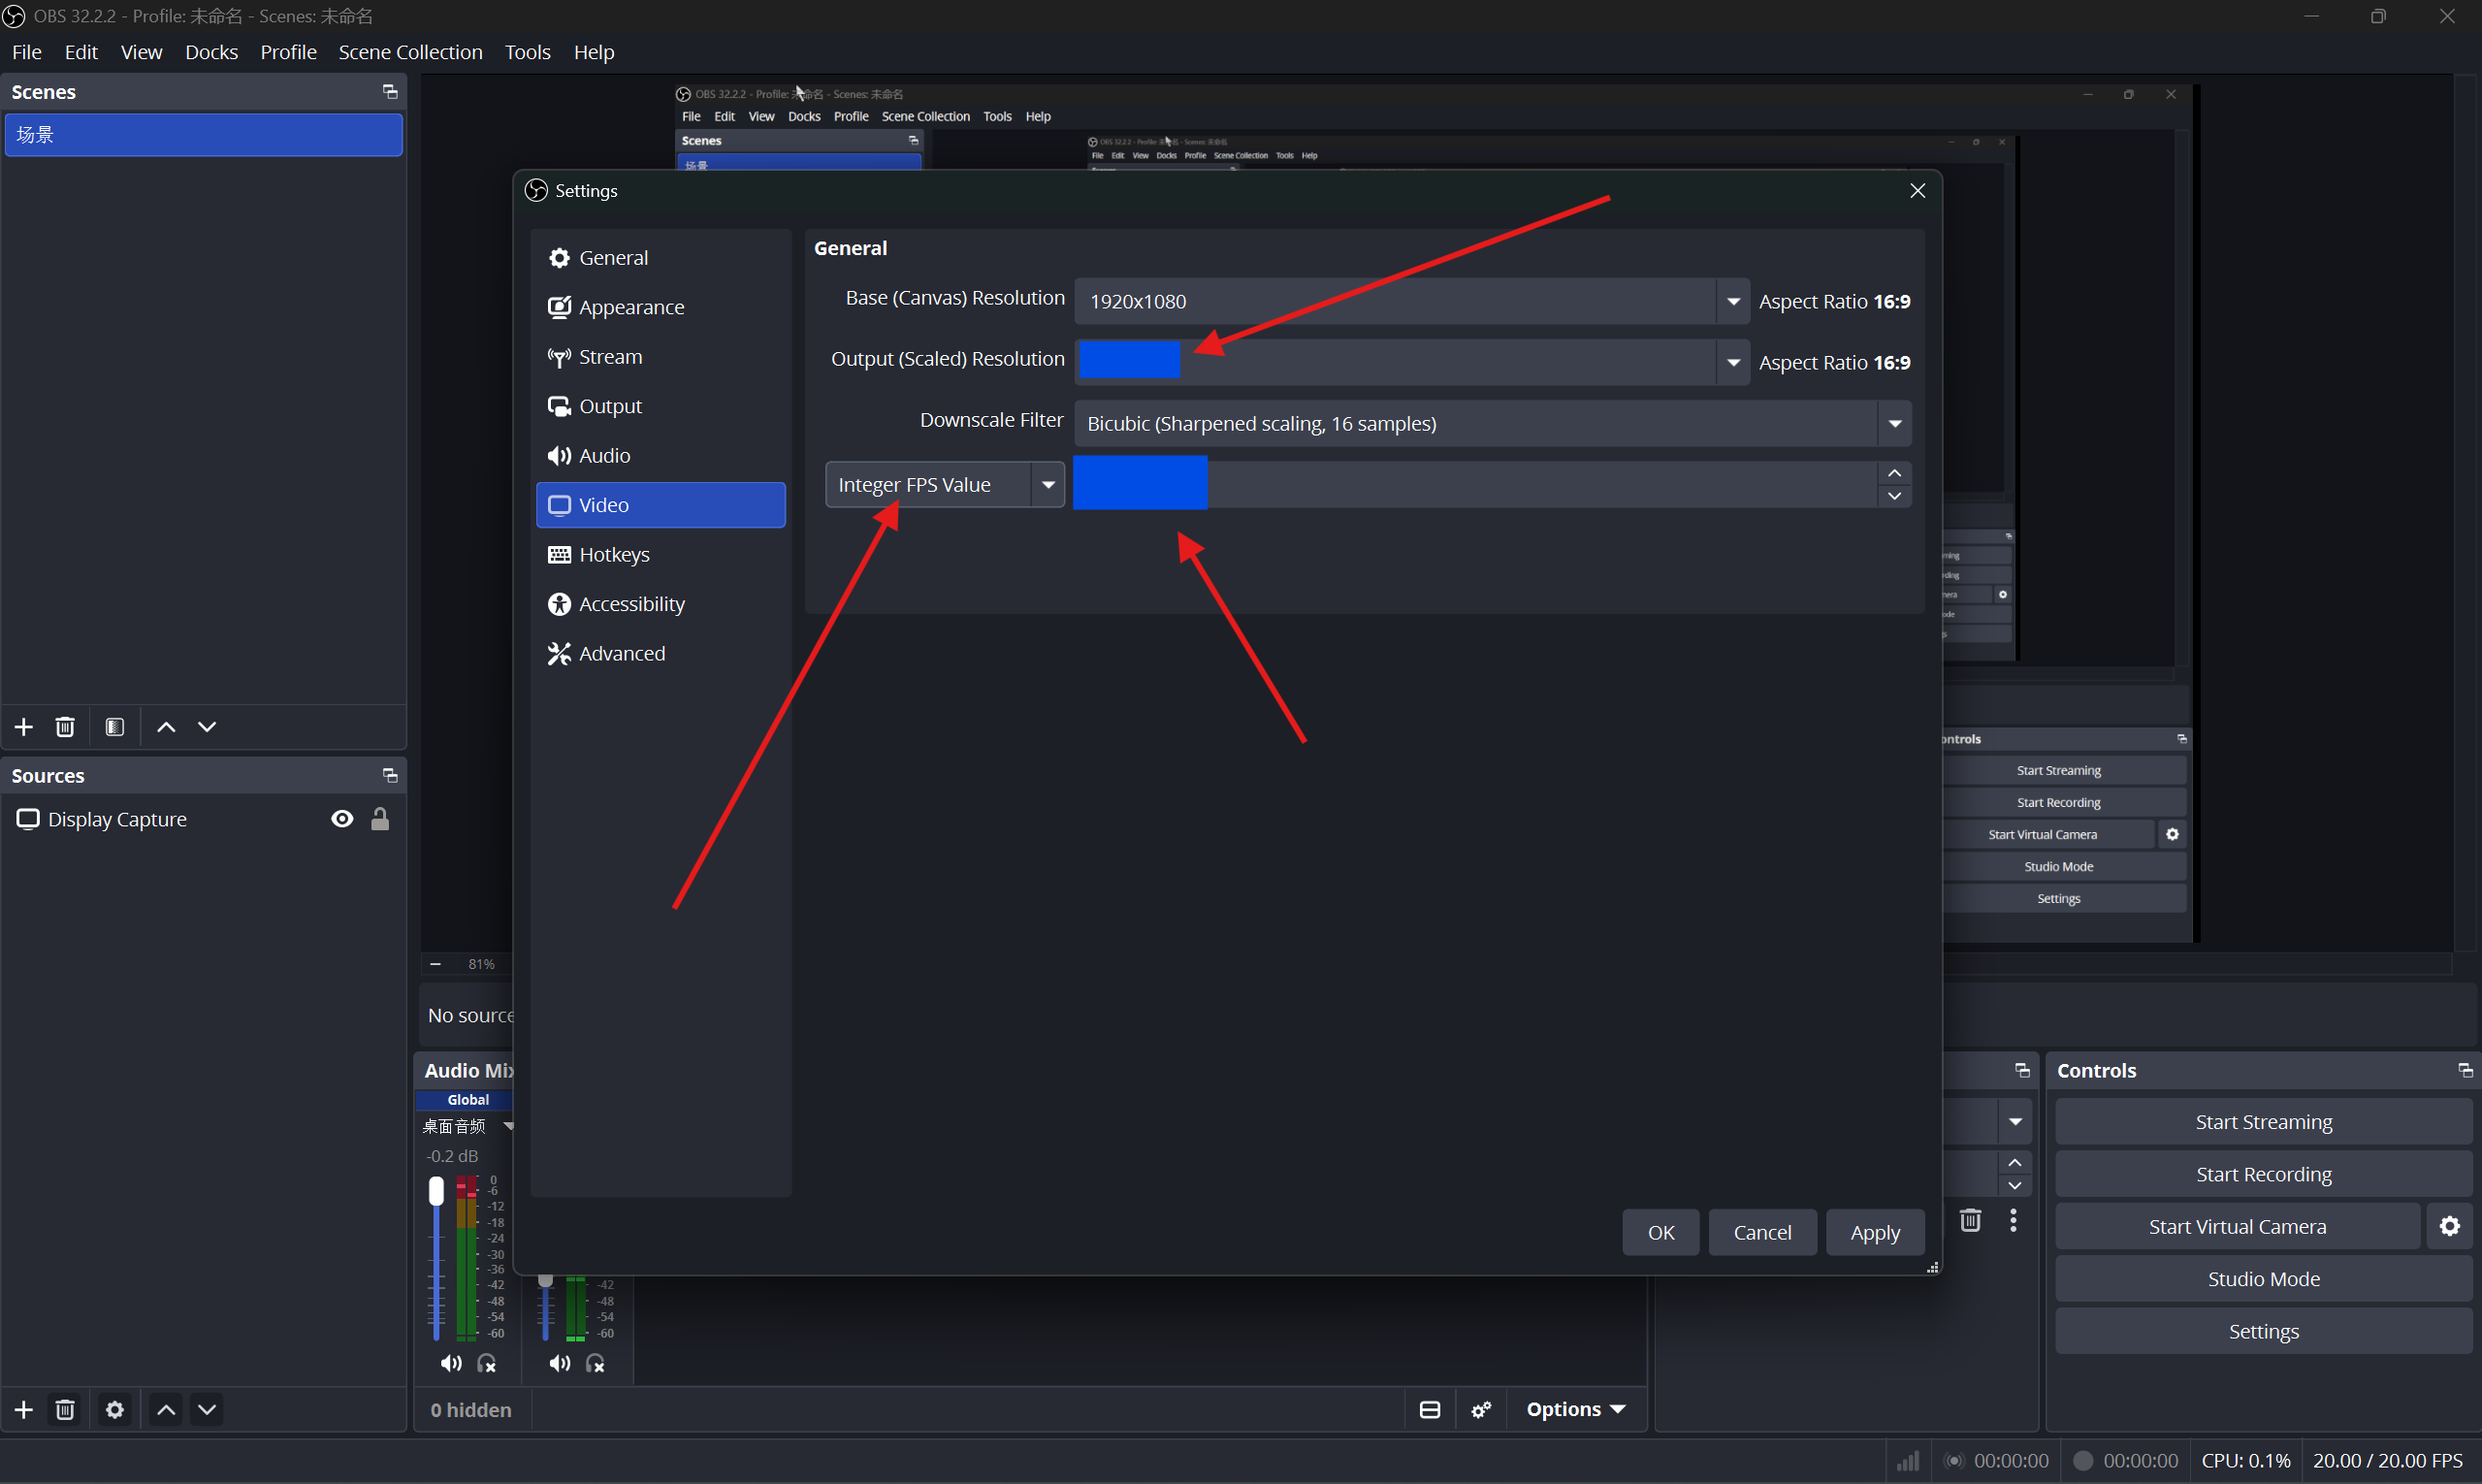
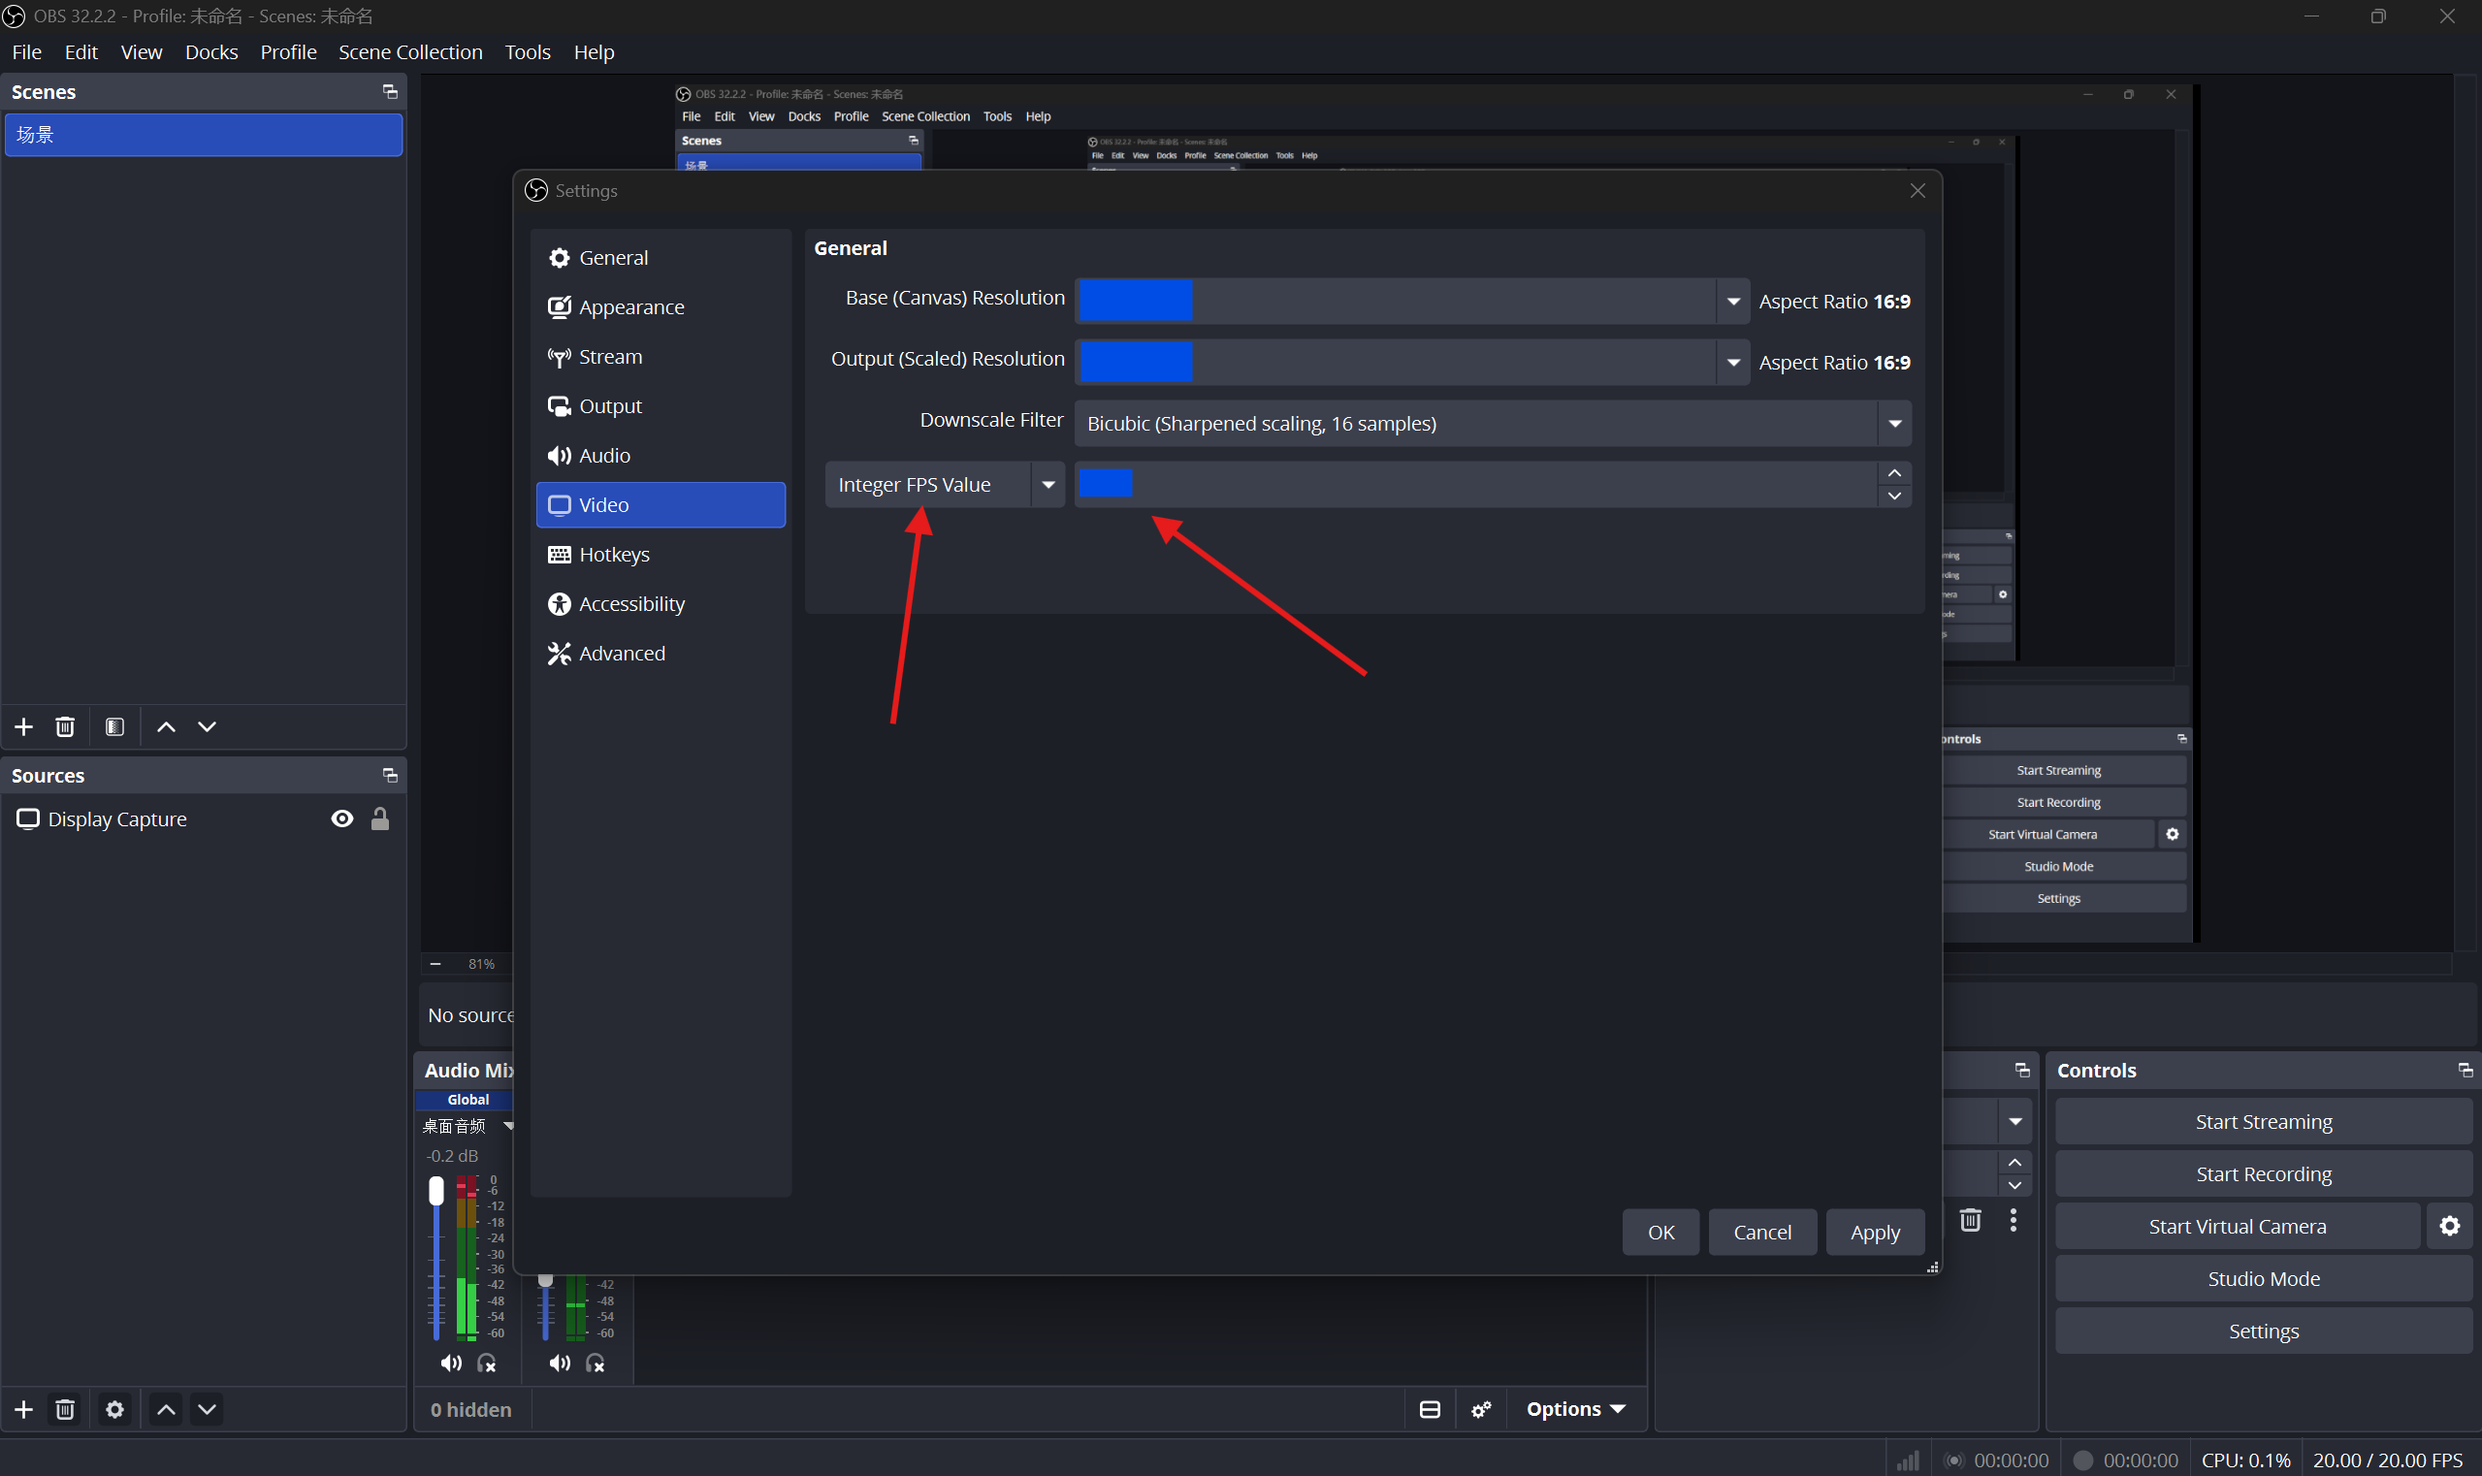
feat: enhance ICE probing and SDP handling for improved WebRTC compatibility

diff --git a/server/api/streams/whep/[stream].post.ts b/server/api/streams/whep/[stream].post.ts
@@ -1,15 +1,25 @@
 /**
  * Same-origin WHEP (WebRTC) signaling proxy — the SDP exchange only. The
  * browser POSTs its offer here; we forward it to the hosting SRS's
- * /rtc/v1/whep/ endpoint (reached over the internal network, same host as the
- * FLV base) and return the answer. Same-origin keeps JWT auth + no CORS, and
- * removes any need for SRS's API port to be browser-visible — only the MEDIA
- * (ICE/UDP 8000) still flows browser↔SRS directly, which is the point of
- * WebRTC. Admin-only, like the FLV proxy.
+ * /rtc/v1/whep/ endpoint and return the answer. Same-origin keeps JWT auth +
+ * no CORS, and removes any need for SRS's API port to be browser-visible —
+ * only the MEDIA (ICE/UDP) still flows browser↔SRS directly, which is the
+ * point of WebRTC. Admin-only, like the FLV proxy.
+ *
+ * Two forwarding paths by host:
+ *   - REMOTE media node: the node's SRS HTTP API is deliberately NEVER
+ *     published (unauthenticated), so the offer is RELAYED over the socket.io
+ *     control channel ('node:whep' with ack — the node POSTs to its colocated
+ *     SRS itself). Requires firmware with the handler; older binaries never
+ *     ack → a clear 502 telling the admin to update the node.
+ *   - Local SRS (single-server): direct internal fetch, as before.
  */
 import { createError, getRouterParam } from 'h3'
 import { env } from '../../../utils/env'
-import { resolveFlvBase } from '../../../services/media-node-registry'
+import { resolveFlvBase, getHostingNode, getSocket } from '../../../services/media-node-registry'
+import { getSocketIO } from '../../../utils/socket-io'
+
+const NODE_WHEP_TIMEOUT_MS = 8000
 
 export default defineEventHandler(async (event) => {
   requireAdmin(event)
@@ -22,8 +32,43 @@ export default defineEventHandler(async (event) => {
     throw createError({ statusCode: 400, statusMessage: 'SDP offer body is required' })
   }
 
-  // SRS serves both the FLV remux and the HTTP API from the same host — swap
-  // the FLV base's port for the API port.
+  // Remote-hosted stream → relay the SDP through the node's control socket.
+  const host = getHostingNode(stream)
+  if (host) {
+    const io = getSocketIO()
+    const socket = io ? getSocket(io, host.nodeId) : null
+    if (!socket) {
+      throw createError({ statusCode: 502, statusMessage: 'hosting node is offline' })
+    }
+    const answer = await new Promise<string>((resolve, reject) => {
+      socket
+        .timeout(NODE_WHEP_TIMEOUT_MS)
+        .emit(
+          'node:whep',
+          { streamName: stream, offer },
+          (err: unknown, res: { answer?: string; error?: string } | undefined) => {
+            if (err) {
+              reject(createError({
+                statusCode: 502,
+                statusMessage: 'node did not answer the WHEP relay (old firmware?) — update the node',
+              }))
+            } else if (res?.error) {
+              reject(createError({ statusCode: 502, statusMessage: `node SRS: ${res.error}` }))
+            } else if (res?.answer) {
+              resolve(res.answer)
+            } else {
+              reject(createError({ statusCode: 502, statusMessage: 'node returned an empty WHEP answer' }))
+            }
+          },
+        )
+    })
+    setHeader(event, 'content-type', 'application/sdp')
+    setHeader(event, 'cache-control', 'no-store')
+    return answer
+  }
+
+  // Local SRS: it serves both the FLV remux and the HTTP API from the same
+  // host — swap the FLV base's port for the API port.
   const target = new URL(resolveFlvBase(stream))
   target.port = String(env.srsApiPort)
   target.pathname = '/rtc/v1/whep/'

diff --git a/app/pages/dashboard/events/[id]/manual.vue b/app/pages/dashboard/events/[id]/manual.vue
@@ -567,6 +567,11 @@ sudo apt install obs-studio</pre>
               includes H.264 in its name is suitable.
             </li>
             <li>
+              Tick <strong>Rescale Output</strong> and set the rescale resolution — at most
+              <code>{{ limits.maxWidth }}×{{ limits.maxHeight }}</code> for this event — keeping
+              the <strong>Downscale Filter</strong> on <strong>Bicubic</strong>.
+            </li>
+            <li>
               Set the <strong>Bitrate</strong> — up to
               <code>{{ limits.maxBitrateKbps }} kbps</code> for this event.
             </li>
@@ -574,7 +579,7 @@ sudo apt install obs-studio</pre>
           <figure class="space-y-1.5">
             <img
               src="/manual/output_settings.png"
-              alt="OBS output settings in Advanced mode with the x264 encoder and bitrate field"
+              alt="OBS output settings in Advanced mode: x264 encoder, Rescale Output with Bicubic filter, bitrate field"
               class="w-full rounded-lg border"
               loading="lazy"
             />
@@ -605,14 +610,15 @@ sudo apt install obs-studio</pre>
               <code>{{ limits.maxWidth }}×{{ limits.maxHeight }}</code> for this event.
             </li>
             <li>
-              Set both <strong>Base (Canvas)</strong> and <strong>Output (Scaled)</strong> FPS —
+              Set both <strong>Base (Canvas)</strong> and <strong>Output (Scaled)</strong> FPS:
+              pick <strong>Integer FPS Value</strong> (not a fractional Common value) and stay
               at most <code>{{ limits.maxFps }} fps</code>, and at least 2 (30 recommended).
             </li>
           </ol>
           <figure class="space-y-1.5">
             <img
               src="/manual/video_settings.png"
-              alt="OBS video settings with base and output resolution and FPS fields"
+              alt="OBS video settings: base/output resolution, Bicubic downscale filter and Integer FPS Value"
               class="w-full rounded-lg border"
               loading="lazy"
             />

diff --git a/app/pages/e/[slug]/index.vue b/app/pages/e/[slug]/index.vue
@@ -172,13 +172,14 @@ function fmt(ts: number | null): string {
           <CardHeader><CardTitle>Recommended output settings</CardTitle></CardHeader>
           <CardContent>
             <ul class="space-y-1.5 text-sm text-muted-foreground">
-              <li>Resolution: up to <code>{{ guide.limits.maxWidth }}×{{ guide.limits.maxHeight }}</code></li>
-              <li>Frame rate: up to <code>{{ guide.limits.maxFps }} fps</code></li>
+              <li>Resolution: up to <code>{{ guide.limits.maxWidth }}×{{ guide.limits.maxHeight }}</code> (Rescale Output, Bicubic)</li>
+              <li>Frame rate: up to <code>{{ guide.limits.maxFps }} fps</code> (an <strong>Integer FPS Value</strong>)</li>
               <li>Video bitrate: up to <code>{{ guide.limits.maxBitrateKbps }} kbps</code></li>
+              <li>Encoder: <strong>H.264</strong> — any variant in its name works</li>
             </ul>
             <p class="mt-3 text-xs text-muted-foreground">
-              Streams that exceed these limits are flagged and may be disconnected. Set your canvas FPS to
-              at least 2 (30 recommended) — a 1 FPS canvas fails to connect.
+              Streams that exceed these limits are flagged and may be disconnected. Pick an Integer FPS
+              Value of at least 2 (30 recommended) — a 1 FPS canvas fails to connect.
             </p>
           </CardContent>
         </Card>

diff --git a/server/services/media-node-events.ts b/server/services/media-node-events.ts
@@ -134,7 +134,12 @@ export function wireMediaNodeNamespace(io: SocketIOServer): void {
         // (mixed-version fleets during rollout). Hostname as last resort.
         identifier: payload.identifier || payload.origin || payload.hostname,
         srsFlvBase: payload.srsFlvBase,
+        publicOrigin: payload.publicOrigin ?? '',
+        publicRtmpPort: payload.publicRtmpPort ?? 1935,
+        publicProbeUdpPort: payload.publicProbeUdpPort ?? 0,
+        publicSrsUdpPort: payload.publicSrsUdpPort ?? 0,
         // legacy PUBLIC_RTMP_AUTHORITY (host[:port]) splits into origin+port
+        // (only fills gaps — explicit new fields win)
         ...splitLegacyAuthority(payload),
         hostname: payload.hostname,
         version: payload.version,

diff --git a/server/api/nodes/probe-ice/[nodeId].post.ts b/server/api/nodes/probe-ice/[nodeId].post.ts
@@ -51,8 +51,11 @@ export default defineEventHandler(async (event) => {
     'a=setup:active',
     'a=sctp-port:5000',
     `a=candidate:1 1 udp 2130706431 ${host} ${node.publicProbeUdpPort} typ host generation 0`,
-    'a=end-of-candidates',
-  ].join('\r\n')
+    // NOTE: no `a=end-of-candidates` here — Chrome's SDP parser REJECTS it as
+    // a standalone attribute line in a remote description ("Invalid SDP
+    // line"), which used to kill the probe silently. The inline candidate is
+    // complete signaling; nothing trickles.
+  ].join('\r\n') + '\r\n' // trailing CRLF: RFC 4566 — Chrome rejects an unterminated last line
 
   setHeader(event, 'content-type', 'application/sdp')
   setHeader(event, 'cache-control', 'no-store')

diff --git a/app/components/nodes/NodePicker.vue b/app/components/nodes/NodePicker.vue
@@ -38,8 +38,11 @@ async function browserProbe(nodeId: string): Promise<number | null> {
     pc.createDataChannel('probe')
     const offer = await pc.createOffer()
     await pc.setLocalDescription(offer)
+    // responseType:'text' — ofetch hands non-JSON content-types back as a
+    // BLOB, and setRemoteDescription(Blob) throws (silently caught → n/a).
     const answer = await $fetch<string>(`/api/nodes/probe-ice/${encodeURIComponent(nodeId)}`, {
       method: 'POST',
+      responseType: 'text',
       headers: { 'content-type': 'application/sdp' },
       body: offer.sdp ?? '',
     })
